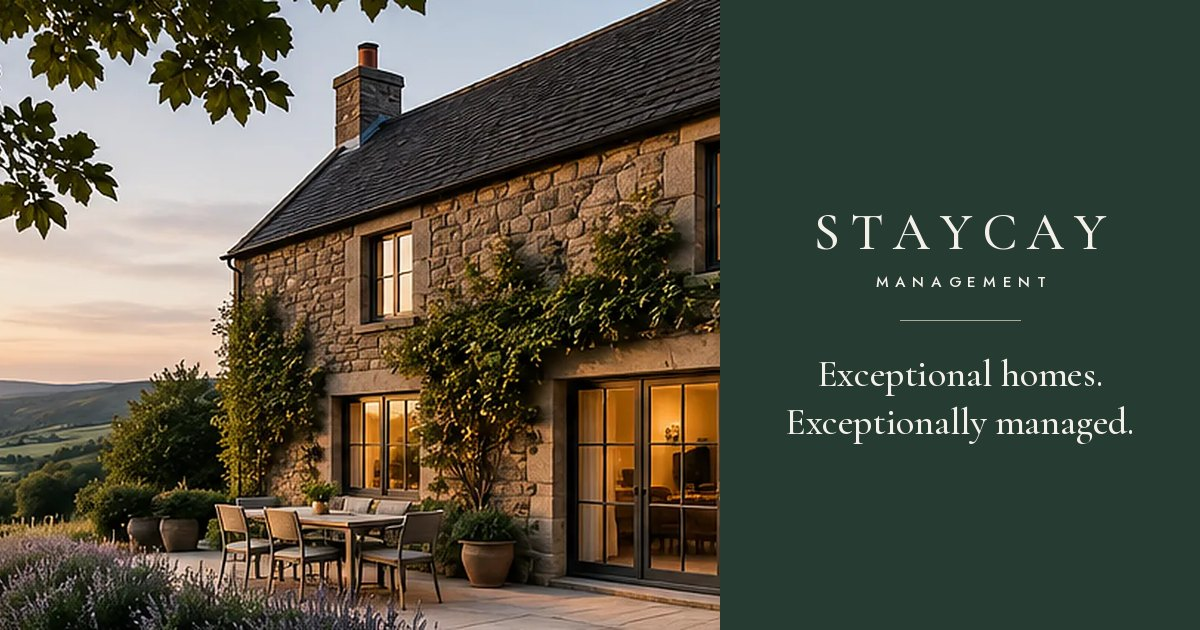
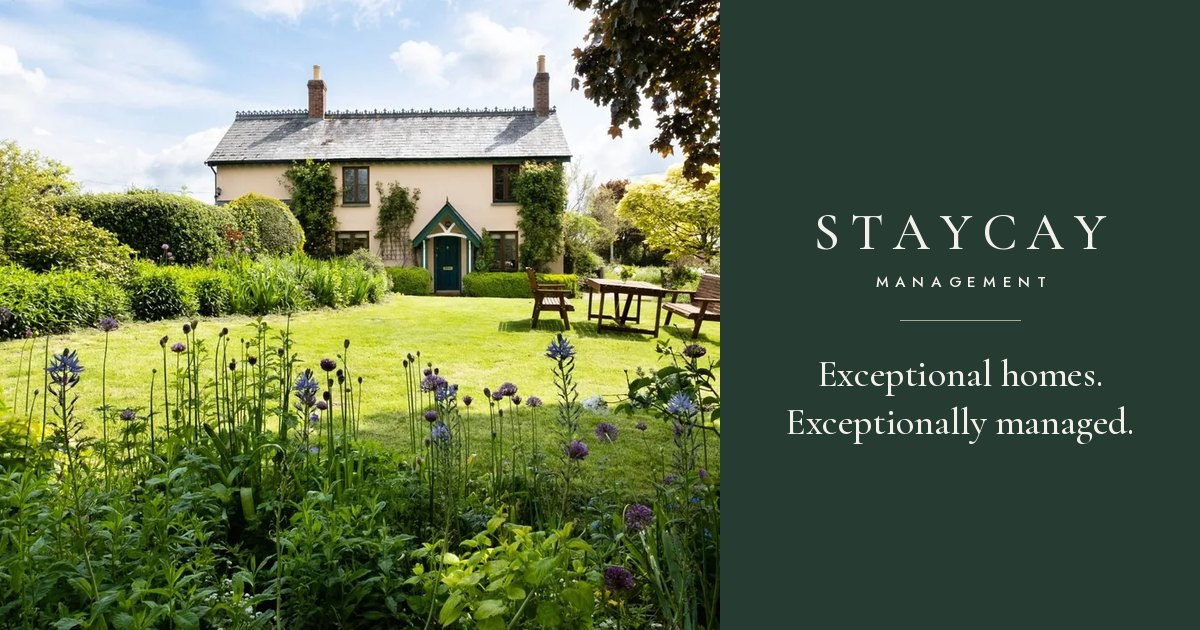
Replace homepage hero with a high-resolution cottage photo
Pexels photo (free licence), cropped so the house sits to the right of
the headline. Also used for the social share image. Credit noted in
tools/src/CREDITS.md.

Claude-Session: https://claude.ai/code/session_01RbFhgUpYq1mqHXqreMcFdd

diff --git a/site/for-owners/index.html b/site/for-owners/index.html
@@ -24,7 +24,7 @@
 <link rel="apple-touch-icon" href="/apple-touch-icon.png">
 <link rel="preload" href="/assets/fonts/cormorant-garamond-latin-500-normal.woff2" as="font" type="font/woff2" crossorigin>
 <link rel="preload" href="/assets/fonts/jost-latin-400-normal.woff2" as="font" type="font/woff2" crossorigin>
-<link rel="stylesheet" href="/assets/css/site.css?v=b6f2d4a8">
+<link rel="stylesheet" href="/assets/css/site.css?v=67ab2d08">
 <script src="/assets/js/site.js?v=2e065ad1" defer></script>
 <script type="application/ld+json">{"@context": "https://schema.org", "@type": "BreadcrumbList", "itemListElement": [{"@type": "ListItem", "position": 1, "name": "Home", "item": "https://www.staycaymanagement.co.uk/"}, {"@type": "ListItem", "position": 2, "name": "For Owners", "item": "https://www.staycaymanagement.co.uk/for-owners/"}]}</script>
 <script type="application/ld+json">{"@context": "https://schema.org", "@type": "FAQPage", "mainEntity": [{"@type": "Question", "name": "How much does Staycay charge?", "acceptedAnswer": {"@type": "Answer", "text": "Our fees depend on the service you choose, the property and what's involved in looking after it, so we don't publish a one-size-fits-all rate. After your appraisal we'll give you a clear proposal with nothing hidden."}}, {"@type": "Question", "name": "My home is already listed on Airbnb or Booking.com. Can you take it on?", "acceptedAnswer": {"@type": "Answer", "text": "Yes. Many owners come to us with an existing listing. We'll review how it's performing today and talk you through how we'd take it on."}}, {"@type": "Question", "name": "Can I still use my home myself?", "acceptedAnswer": {"@type": "Answer", "text": "Of course. You can keep dates for your own stays, and we'll talk through how to plan them around the busiest periods."}}, {"@type": "Question", "name": "Which areas do you cover?", "acceptedAnswer": {"@type": "Answer", "text": "We specialise in the Peak District, and also manage homes across Derbyshire and South Yorkshire. If you're just outside these areas, ask us anyway."}}, {"@type": "Question", "name": "Do you take on homes that aren't holiday lets yet?", "acceptedAnswer": {"@type": "Answer", "text": "Yes. We can help you get a home ready to let, from presentation and photography to setting up listings and pricing."}}, {"@type": "Question", "name": "Do you take every property?", "acceptedAnswer": {"@type": "Answer", "text": "No. We focus on high-quality homes we're confident we can do justice to, which is how we keep standards high for owners and guests."}}]}</script>

diff --git a/site/index.html b/site/index.html
@@ -24,7 +24,7 @@
 <link rel="apple-touch-icon" href="/apple-touch-icon.png">
 <link rel="preload" href="/assets/fonts/cormorant-garamond-latin-500-normal.woff2" as="font" type="font/woff2" crossorigin>
 <link rel="preload" href="/assets/fonts/jost-latin-400-normal.woff2" as="font" type="font/woff2" crossorigin>
-<link rel="stylesheet" href="/assets/css/site.css?v=b6f2d4a8">
+<link rel="stylesheet" href="/assets/css/site.css?v=67ab2d08">
 <script src="/assets/js/site.js?v=2e065ad1" defer></script>
 <script type="application/ld+json">{"@context": "https://schema.org", "@type": "Organization", "name": "Staycay Management", "url": "https://www.staycaymanagement.co.uk/", "slogan": "Exceptional homes. Exceptionally managed.", "email": "enquiries@staycay.uk", "description": "Specialist manager of high-quality holiday homes in the Peak District, Derbyshire and South Yorkshire.", "areaServed": [{"@type": "Place", "name": "Peak District"}, {"@type": "Place", "name": "Derbyshire"}, {"@type": "Place", "name": "South Yorkshire"}]}</script>
 <script type="application/ld+json">{"@context": "https://schema.org", "@type": "WebSite", "name": "Staycay Management", "url": "https://www.staycaymanagement.co.uk/"}</script>
@@ -47,7 +47,7 @@
 <main id="main">
 
 <section class="hero" aria-labelledby="hero-h">
-  <div class="hero__media"><img src="/assets/img/house-480.webp" srcset="/assets/img/house-480.webp 480w, /assets/img/house-480.webp 480w, /assets/img/house-800.webp 800w, /assets/img/house-800.webp 800w, /assets/img/house-1200.webp 1200w, /assets/img/house-1600.webp 1600w" sizes="100vw" width="1600" height="905" alt="A restored stone farmhouse with lit windows and a lavender-lined terrace overlooking a Peak District valley at dusk" fetchpriority="high"></div>
+  <div class="hero__media"><img src="/assets/img/hero-800.webp" srcset="/assets/img/hero-480.webp 480w, /assets/img/hero-800.webp 800w, /assets/img/hero-1200.webp 1200w, /assets/img/hero-1600.webp 1600w" sizes="100vw" width="1600" height="1000" alt="A country cottage with climbing roses behind a sunny lawn and flower borders, with fields beyond" fetchpriority="high"></div>
   <div class="wrap hero__content">
     <span class="eyebrow">Holiday home management · Peak District</span>
     <h1 id="hero-h">Exceptional homes. <em>Exceptionally managed.</em></h1>

diff --git a/site/our-homes/millstone-barn/index.html b/site/our-homes/millstone-barn/index.html
@@ -24,7 +24,7 @@
 <link rel="apple-touch-icon" href="/apple-touch-icon.png">
 <link rel="preload" href="/assets/fonts/cormorant-garamond-latin-500-normal.woff2" as="font" type="font/woff2" crossorigin>
 <link rel="preload" href="/assets/fonts/jost-latin-400-normal.woff2" as="font" type="font/woff2" crossorigin>
-<link rel="stylesheet" href="/assets/css/site.css?v=b6f2d4a8">
+<link rel="stylesheet" href="/assets/css/site.css?v=67ab2d08">
 <script src="/assets/js/site.js?v=2e065ad1" defer></script>
 <script type="application/ld+json">{"@context": "https://schema.org", "@type": "BreadcrumbList", "itemListElement": [{"@type": "ListItem", "position": 1, "name": "Home", "item": "https://www.staycaymanagement.co.uk/"}, {"@type": "ListItem", "position": 2, "name": "Our Homes", "item": "https://www.staycaymanagement.co.uk/our-homes/"}, {"@type": "ListItem", "position": 3, "name": "Millstone Barn", "item": "https://www.staycaymanagement.co.uk/our-homes/millstone-barn/"}]}</script>
 <script type="application/ld+json">{"@context": "https://schema.org", "@type": "VacationRental", "name": "Millstone Barn", "description": "A gritstone barn with long views across the Hope Valley, a wood-burner, and a terrace made for slow summer evenings.", "url": "https://www.staycaymanagement.co.uk/our-homes/millstone-barn/", "image": ["https://www.staycaymanagement.co.uk/assets/img/house-1600.webp", "https://www.staycaymanagement.co.uk/assets/img/living-1200.webp", "https://www.staycaymanagement.co.uk/assets/img/kitchen-800.webp", "https://www.staycaymanagement.co.uk/assets/img/bedroom-800.webp", "https://www.staycaymanagement.co.uk/assets/img/bathroom-800.webp"], "address": {"@type": "PostalAddress", "addressLocality": "Hathersage, Hope Valley", "addressRegion": "Peak District", "addressCountry": "GB"}, "containsPlace": {"@type": "Accommodation", "occupancy": {"@type": "QuantitativeValue", "maxValue": 8}, "numberOfBedrooms": 4, "numberOfBathroomsTotal": 3}, "brand": {"@type": "Organization", "name": "Staycay Management", "url": "https://www.staycaymanagement.co.uk/"}}</script>

diff --git a/site/our-homes/curlew-cottage/index.html b/site/our-homes/curlew-cottage/index.html
@@ -24,7 +24,7 @@
 <link rel="apple-touch-icon" href="/apple-touch-icon.png">
 <link rel="preload" href="/assets/fonts/cormorant-garamond-latin-500-normal.woff2" as="font" type="font/woff2" crossorigin>
 <link rel="preload" href="/assets/fonts/jost-latin-400-normal.woff2" as="font" type="font/woff2" crossorigin>
-<link rel="stylesheet" href="/assets/css/site.css?v=b6f2d4a8">
+<link rel="stylesheet" href="/assets/css/site.css?v=67ab2d08">
 <script src="/assets/js/site.js?v=2e065ad1" defer></script>
 <script type="application/ld+json">{"@context": "https://schema.org", "@type": "BreadcrumbList", "itemListElement": [{"@type": "ListItem", "position": 1, "name": "Home", "item": "https://www.staycaymanagement.co.uk/"}, {"@type": "ListItem", "position": 2, "name": "Our Homes", "item": "https://www.staycaymanagement.co.uk/our-homes/"}, {"@type": "ListItem", "position": 3, "name": "Curlew Cottage", "item": "https://www.staycaymanagement.co.uk/our-homes/curlew-cottage/"}]}</script>
 <script type="application/ld+json">{"@context": "https://schema.org", "@type": "VacationRental", "name": "Curlew Cottage", "description": "A snug stone cottage at the foot of Kinder Scout, with a roll-top bath, a crackling stove and walks from the front door.", "url": "https://www.staycaymanagement.co.uk/our-homes/curlew-cottage/", "image": ["https://www.staycaymanagement.co.uk/assets/img/fireplace-800.webp", "https://www.staycaymanagement.co.uk/assets/img/bedroom-800.webp", "https://www.staycaymanagement.co.uk/assets/img/bathroom-800.webp", "https://www.staycaymanagement.co.uk/assets/img/throw-480.webp", "https://www.staycaymanagement.co.uk/assets/img/landscape-480.webp"], "address": {"@type": "PostalAddress", "addressLocality": "Edale", "addressRegion": "Peak District", "addressCountry": "GB"}, "containsPlace": {"@type": "Accommodation", "occupancy": {"@type": "QuantitativeValue", "maxValue": 4}, "numberOfBedrooms": 2, "numberOfBathroomsTotal": 1}, "brand": {"@type": "Organization", "name": "Staycay Management", "url": "https://www.staycaymanagement.co.uk/"}}</script>

diff --git a/site/our-homes/the-old-dairy/index.html b/site/our-homes/the-old-dairy/index.html
@@ -24,7 +24,7 @@
 <link rel="apple-touch-icon" href="/apple-touch-icon.png">
 <link rel="preload" href="/assets/fonts/cormorant-garamond-latin-500-normal.woff2" as="font" type="font/woff2" crossorigin>
 <link rel="preload" href="/assets/fonts/jost-latin-400-normal.woff2" as="font" type="font/woff2" crossorigin>
-<link rel="stylesheet" href="/assets/css/site.css?v=b6f2d4a8">
+<link rel="stylesheet" href="/assets/css/site.css?v=67ab2d08">
 <script src="/assets/js/site.js?v=2e065ad1" defer></script>
 <script type="application/ld+json">{"@context": "https://schema.org", "@type": "BreadcrumbList", "itemListElement": [{"@type": "ListItem", "position": 1, "name": "Home", "item": "https://www.staycaymanagement.co.uk/"}, {"@type": "ListItem", "position": 2, "name": "Our Homes", "item": "https://www.staycaymanagement.co.uk/our-homes/"}, {"@type": "ListItem", "position": 3, "name": "The Old Dairy", "item": "https://www.staycaymanagement.co.uk/our-homes/the-old-dairy/"}]}</script>
 <script type="application/ld+json">{"@context": "https://schema.org", "@type": "VacationRental", "name": "The Old Dairy", "description": "A former farm dairy turned light-filled family home, with a big kitchen table and the Derbyshire Dales on the doorstep.", "url": "https://www.staycaymanagement.co.uk/our-homes/the-old-dairy/", "image": ["https://www.staycaymanagement.co.uk/assets/img/kitchen-800.webp", "https://www.staycaymanagement.co.uk/assets/img/dining-480.webp", "https://www.staycaymanagement.co.uk/assets/img/living-1200.webp", "https://www.staycaymanagement.co.uk/assets/img/bedroom-800.webp", "https://www.staycaymanagement.co.uk/assets/img/olive-480.webp"], "address": {"@type": "PostalAddress", "addressLocality": "Near Bakewell", "addressRegion": "Derbyshire", "addressCountry": "GB"}, "containsPlace": {"@type": "Accommodation", "occupancy": {"@type": "QuantitativeValue", "maxValue": 6}, "numberOfBedrooms": 3, "numberOfBathroomsTotal": 2}, "brand": {"@type": "Organization", "name": "Staycay Management", "url": "https://www.staycaymanagement.co.uk/"}}</script>

diff --git a/site/our-homes/fern-house/index.html b/site/our-homes/fern-house/index.html
@@ -24,7 +24,7 @@
 <link rel="apple-touch-icon" href="/apple-touch-icon.png">
 <link rel="preload" href="/assets/fonts/cormorant-garamond-latin-500-normal.woff2" as="font" type="font/woff2" crossorigin>
 <link rel="preload" href="/assets/fonts/jost-latin-400-normal.woff2" as="font" type="font/woff2" crossorigin>
-<link rel="stylesheet" href="/assets/css/site.css?v=b6f2d4a8">
+<link rel="stylesheet" href="/assets/css/site.css?v=67ab2d08">
 <script src="/assets/js/site.js?v=2e065ad1" defer></script>
 <script type="application/ld+json">{"@context": "https://schema.org", "@type": "BreadcrumbList", "itemListElement": [{"@type": "ListItem", "position": 1, "name": "Home", "item": "https://www.staycaymanagement.co.uk/"}, {"@type": "ListItem", "position": 2, "name": "Our Homes", "item": "https://www.staycaymanagement.co.uk/our-homes/"}, {"@type": "ListItem", "position": 3, "name": "Fern House", "item": "https://www.staycaymanagement.co.uk/our-homes/fern-house/"}]}</script>
 <script type="application/ld+json">{"@context": "https://schema.org", "@type": "VacationRental", "name": "Fern House", "description": "A handsome stone house for big gatherings, with a terrace for long lunches and space for everyone to spread out.", "url": "https://www.staycaymanagement.co.uk/our-homes/fern-house/", "image": ["https://www.staycaymanagement.co.uk/assets/img/house-tight-800.webp", "https://www.staycaymanagement.co.uk/assets/img/terrace-800.webp", "https://www.staycaymanagement.co.uk/assets/img/kitchen-800.webp", "https://www.staycaymanagement.co.uk/assets/img/living-1200.webp", "https://www.staycaymanagement.co.uk/assets/img/bedroom-800.webp"], "address": {"@type": "PostalAddress", "addressLocality": "Ashford-in-the-Water", "addressRegion": "Peak District", "addressCountry": "GB"}, "containsPlace": {"@type": "Accommodation", "occupancy": {"@type": "QuantitativeValue", "maxValue": 10}, "numberOfBedrooms": 5, "numberOfBathroomsTotal": 4}, "brand": {"@type": "Organization", "name": "Staycay Management", "url": "https://www.staycaymanagement.co.uk/"}}</script>

diff --git a/site/our-homes/heather-lodge/index.html b/site/our-homes/heather-lodge/index.html
@@ -24,7 +24,7 @@
 <link rel="apple-touch-icon" href="/apple-touch-icon.png">
 <link rel="preload" href="/assets/fonts/cormorant-garamond-latin-500-normal.woff2" as="font" type="font/woff2" crossorigin>
 <link rel="preload" href="/assets/fonts/jost-latin-400-normal.woff2" as="font" type="font/woff2" crossorigin>
-<link rel="stylesheet" href="/assets/css/site.css?v=b6f2d4a8">
+<link rel="stylesheet" href="/assets/css/site.css?v=67ab2d08">
 <script src="/assets/js/site.js?v=2e065ad1" defer></script>
 <script type="application/ld+json">{"@context": "https://schema.org", "@type": "BreadcrumbList", "itemListElement": [{"@type": "ListItem", "position": 1, "name": "Home", "item": "https://www.staycaymanagement.co.uk/"}, {"@type": "ListItem", "position": 2, "name": "Our Homes", "item": "https://www.staycaymanagement.co.uk/our-homes/"}, {"@type": "ListItem", "position": 3, "name": "Heather Lodge", "item": "https://www.staycaymanagement.co.uk/our-homes/heather-lodge/"}]}</script>
 <script type="application/ld+json">{"@context": "https://schema.org", "@type": "VacationRental", "name": "Heather Lodge", "description": "A quiet hideaway for two beneath Mam Tor, with a freestanding bath and a view of the hills from the bed.", "url": "https://www.staycaymanagement.co.uk/our-homes/heather-lodge/", "image": ["https://www.staycaymanagement.co.uk/assets/img/bathroom-800.webp", "https://www.staycaymanagement.co.uk/assets/img/bedroom-800.webp", "https://www.staycaymanagement.co.uk/assets/img/throw-480.webp", "https://www.staycaymanagement.co.uk/assets/img/landscape-480.webp"], "address": {"@type": "PostalAddress", "addressLocality": "Castleton", "addressRegion": "Peak District", "addressCountry": "GB"}, "containsPlace": {"@type": "Accommodation", "occupancy": {"@type": "QuantitativeValue", "maxValue": 2}, "numberOfBedrooms": 1, "numberOfBathroomsTotal": 1}, "brand": {"@type": "Organization", "name": "Staycay Management", "url": "https://www.staycaymanagement.co.uk/"}}</script>

diff --git a/site/our-homes/stanage-view/index.html b/site/our-homes/stanage-view/index.html
@@ -24,7 +24,7 @@
 <link rel="apple-touch-icon" href="/apple-touch-icon.png">
 <link rel="preload" href="/assets/fonts/cormorant-garamond-latin-500-normal.woff2" as="font" type="font/woff2" crossorigin>
 <link rel="preload" href="/assets/fonts/jost-latin-400-normal.woff2" as="font" type="font/woff2" crossorigin>
-<link rel="stylesheet" href="/assets/css/site.css?v=b6f2d4a8">
+<link rel="stylesheet" href="/assets/css/site.css?v=67ab2d08">
 <script src="/assets/js/site.js?v=2e065ad1" defer></script>
 <script type="application/ld+json">{"@context": "https://schema.org", "@type": "BreadcrumbList", "itemListElement": [{"@type": "ListItem", "position": 1, "name": "Home", "item": "https://www.staycaymanagement.co.uk/"}, {"@type": "ListItem", "position": 2, "name": "Our Homes", "item": "https://www.staycaymanagement.co.uk/our-homes/"}, {"@type": "ListItem", "position": 3, "name": "Stanage View", "item": "https://www.staycaymanagement.co.uk/our-homes/stanage-view/"}]}</script>
 <script type="application/ld+json">{"@context": "https://schema.org", "@type": "VacationRental", "name": "Stanage View", "description": "A light, modern take on a Hope Valley home, looking up to Stanage Edge and a short walk from the station.", "url": "https://www.staycaymanagement.co.uk/our-homes/stanage-view/", "image": ["https://www.staycaymanagement.co.uk/assets/img/living-1200.webp", "https://www.staycaymanagement.co.uk/assets/img/kitchen-800.webp", "https://www.staycaymanagement.co.uk/assets/img/bedroom-800.webp", "https://www.staycaymanagement.co.uk/assets/img/landscape-480.webp"], "address": {"@type": "PostalAddress", "addressLocality": "Bamford", "addressRegion": "Peak District", "addressCountry": "GB"}, "containsPlace": {"@type": "Accommodation", "occupancy": {"@type": "QuantitativeValue", "maxValue": 6}, "numberOfBedrooms": 3, "numberOfBathroomsTotal": 2}, "brand": {"@type": "Organization", "name": "Staycay Management", "url": "https://www.staycaymanagement.co.uk/"}}</script>

diff --git a/site/journal/full-management-or-bookings-only/index.html b/site/journal/full-management-or-bookings-only/index.html
@@ -24,7 +24,7 @@
 <link rel="apple-touch-icon" href="/apple-touch-icon.png">
 <link rel="preload" href="/assets/fonts/cormorant-garamond-latin-500-normal.woff2" as="font" type="font/woff2" crossorigin>
 <link rel="preload" href="/assets/fonts/jost-latin-400-normal.woff2" as="font" type="font/woff2" crossorigin>
-<link rel="stylesheet" href="/assets/css/site.css?v=b6f2d4a8">
+<link rel="stylesheet" href="/assets/css/site.css?v=67ab2d08">
 <script src="/assets/js/site.js?v=2e065ad1" defer></script>
 <script type="application/ld+json">{"@context": "https://schema.org", "@type": "BreadcrumbList", "itemListElement": [{"@type": "ListItem", "position": 1, "name": "Home", "item": "https://www.staycaymanagement.co.uk/"}, {"@type": "ListItem", "position": 2, "name": "Journal", "item": "https://www.staycaymanagement.co.uk/journal/"}, {"@type": "ListItem", "position": 3, "name": "Full management or bookings-only? Choosing the right support for your holiday home", "item": "https://www.staycaymanagement.co.uk/journal/full-management-or-bookings-only/"}]}</script>
 <script type="application/ld+json">{"@context": "https://schema.org", "@type": "BlogPosting", "headline": "Full management or bookings-only? Choosing the right support for your holiday home", "description": "How to decide between full holiday let management and a bookings and revenue service, with the questions to ask yourself before you choose.", "image": "https://www.staycaymanagement.co.uk/assets/img/kitchen-800.webp", "datePublished": "2026-10-28", "dateModified": "2026-10-28", "author": {"@type": "Organization", "name": "Staycay Management", "url": "https://www.staycaymanagement.co.uk/"}, "publisher": {"@type": "Organization", "name": "Staycay Management", "url": "https://www.staycaymanagement.co.uk/"}, "mainEntityOfPage": "https://www.staycaymanagement.co.uk/journal/full-management-or-bookings-only/"}</script>

diff --git a/site/journal/what-does-a-holiday-let-management-company-do/index.html b/site/journal/what-does-a-holiday-let-management-company-do/index.html
@@ -24,7 +24,7 @@
 <link rel="apple-touch-icon" href="/apple-touch-icon.png">
 <link rel="preload" href="/assets/fonts/cormorant-garamond-latin-500-normal.woff2" as="font" type="font/woff2" crossorigin>
 <link rel="preload" href="/assets/fonts/jost-latin-400-normal.woff2" as="font" type="font/woff2" crossorigin>
-<link rel="stylesheet" href="/assets/css/site.css?v=b6f2d4a8">
+<link rel="stylesheet" href="/assets/css/site.css?v=67ab2d08">
 <script src="/assets/js/site.js?v=2e065ad1" defer></script>
 <script type="application/ld+json">{"@context": "https://schema.org", "@type": "BreadcrumbList", "itemListElement": [{"@type": "ListItem", "position": 1, "name": "Home", "item": "https://www.staycaymanagement.co.uk/"}, {"@type": "ListItem", "position": 2, "name": "Journal", "item": "https://www.staycaymanagement.co.uk/journal/"}, {"@type": "ListItem", "position": 3, "name": "What does a holiday let management company actually do?", "item": "https://www.staycaymanagement.co.uk/journal/what-does-a-holiday-let-management-company-do/"}]}</script>
 <script type="application/ld+json">{"@context": "https://schema.org", "@type": "BlogPosting", "headline": "What does a holiday let management company actually do?", "description": "A plain-English guide to what holiday let management covers, from guests and housekeeping to pricing and maintenance, and how to tell whether you need it.", "image": "https://www.staycaymanagement.co.uk/assets/img/living-1200.webp", "datePublished": "2026-10-14", "dateModified": "2026-10-14", "author": {"@type": "Organization", "name": "Staycay Management", "url": "https://www.staycaymanagement.co.uk/"}, "publisher": {"@type": "Organization", "name": "Staycay Management", "url": "https://www.staycaymanagement.co.uk/"}, "mainEntityOfPage": "https://www.staycaymanagement.co.uk/journal/what-does-a-holiday-let-management-company-do/"}</script>

diff --git a/site/assets/css/site.css b/site/assets/css/site.css
@@ -147,7 +147,7 @@ body.nav-open { overflow: hidden; }
 /* ---------- Hero ---------- */
 .hero { position: relative; min-height: min(100svh, 920px); display: flex; align-items: flex-end; color: var(--stone); overflow: hidden; background: var(--peak-2); }
 .hero__media, .hero__media img { position: absolute; inset: 0; width: 100%; height: 100%; object-fit: cover; }
-.hero__media::after { content: ""; position: absolute; inset: 0; background: linear-gradient(180deg, rgba(20, 30, 25, .55) 0%, rgba(20, 30, 25, .12) 32%, rgba(20, 30, 25, .25) 55%, rgba(20, 30, 25, .82) 100%); }
+.hero__media::after { content: ""; position: absolute; inset: 0; background: linear-gradient(180deg, rgba(20, 30, 25, .42) 0%, rgba(20, 30, 25, .06) 30%, rgba(20, 30, 25, .2) 55%, rgba(20, 30, 25, .8) 100%); }
 .hero__content { position: relative; z-index: 2; padding-top: 160px; padding-bottom: clamp(56px, 8vw, 104px); }
 .hero h1 { color: var(--stone); max-width: 12em; margin-bottom: 22px; }
 .hero .lede { color: rgba(243, 240, 233, .9); max-width: 34em; margin-bottom: 34px; }
@@ -489,7 +489,7 @@ body.nav-open { overflow: hidden; }
 .site-footer .btn { white-space: nowrap; }
 .hero__media::before { content: ""; position: absolute; inset: 0; z-index: 1; background: linear-gradient(90deg, rgba(20, 30, 25, .62) 0%, rgba(20, 30, 25, .35) 45%, rgba(20, 30, 25, 0) 75%); }
 .hero__media::after { z-index: 1; }
-@media (max-width: 760px) { .hero__media::before { background: rgba(20, 30, 25, .35); } .hero__media img { object-position: 62% center; } }
+@media (max-width: 760px) { .hero__media::before { background: rgba(20, 30, 25, .35); } .hero__media img { object-position: 67% center; } }
 @media (max-width: 600px) {
   .preview-bar__more { display: none; }
   .hero .btn-row .btn, .cta-band .btn-row .btn, .page-hero--image .btn-row .btn, .inline-cta .btn-row .btn { width: 100%; }

diff --git a/site/how-it-works/index.html b/site/how-it-works/index.html
@@ -24,7 +24,7 @@
 <link rel="apple-touch-icon" href="/apple-touch-icon.png">
 <link rel="preload" href="/assets/fonts/cormorant-garamond-latin-500-normal.woff2" as="font" type="font/woff2" crossorigin>
 <link rel="preload" href="/assets/fonts/jost-latin-400-normal.woff2" as="font" type="font/woff2" crossorigin>
-<link rel="stylesheet" href="/assets/css/site.css?v=b6f2d4a8">
+<link rel="stylesheet" href="/assets/css/site.css?v=67ab2d08">
 <script src="/assets/js/site.js?v=2e065ad1" defer></script>
 <script type="application/ld+json">{"@context": "https://schema.org", "@type": "BreadcrumbList", "itemListElement": [{"@type": "ListItem", "position": 1, "name": "Home", "item": "https://www.staycaymanagement.co.uk/"}, {"@type": "ListItem", "position": 2, "name": "How It Works", "item": "https://www.staycaymanagement.co.uk/how-it-works/"}]}</script>
 <script type="application/ld+json">{"@context": "https://schema.org", "@type": "FAQPage", "mainEntity": [{"@type": "Question", "name": "How much does Staycay charge?", "acceptedAnswer": {"@type": "Answer", "text": "Our fees depend on the service you choose, the property and what's involved in looking after it, so we don't publish a one-size-fits-all rate. After your appraisal we'll give you a clear proposal with nothing hidden."}}, {"@type": "Question", "name": "My home is already listed on Airbnb or Booking.com. Can you take it on?", "acceptedAnswer": {"@type": "Answer", "text": "Yes. Many owners come to us with an existing listing. We'll review how it's performing today and talk you through how we'd take it on."}}, {"@type": "Question", "name": "How long does it take to get started?", "acceptedAnswer": {"@type": "Answer", "text": "It depends on the home and what's needed to get it ready. We'll give you a realistic timeline in your proposal."}}]}</script>
